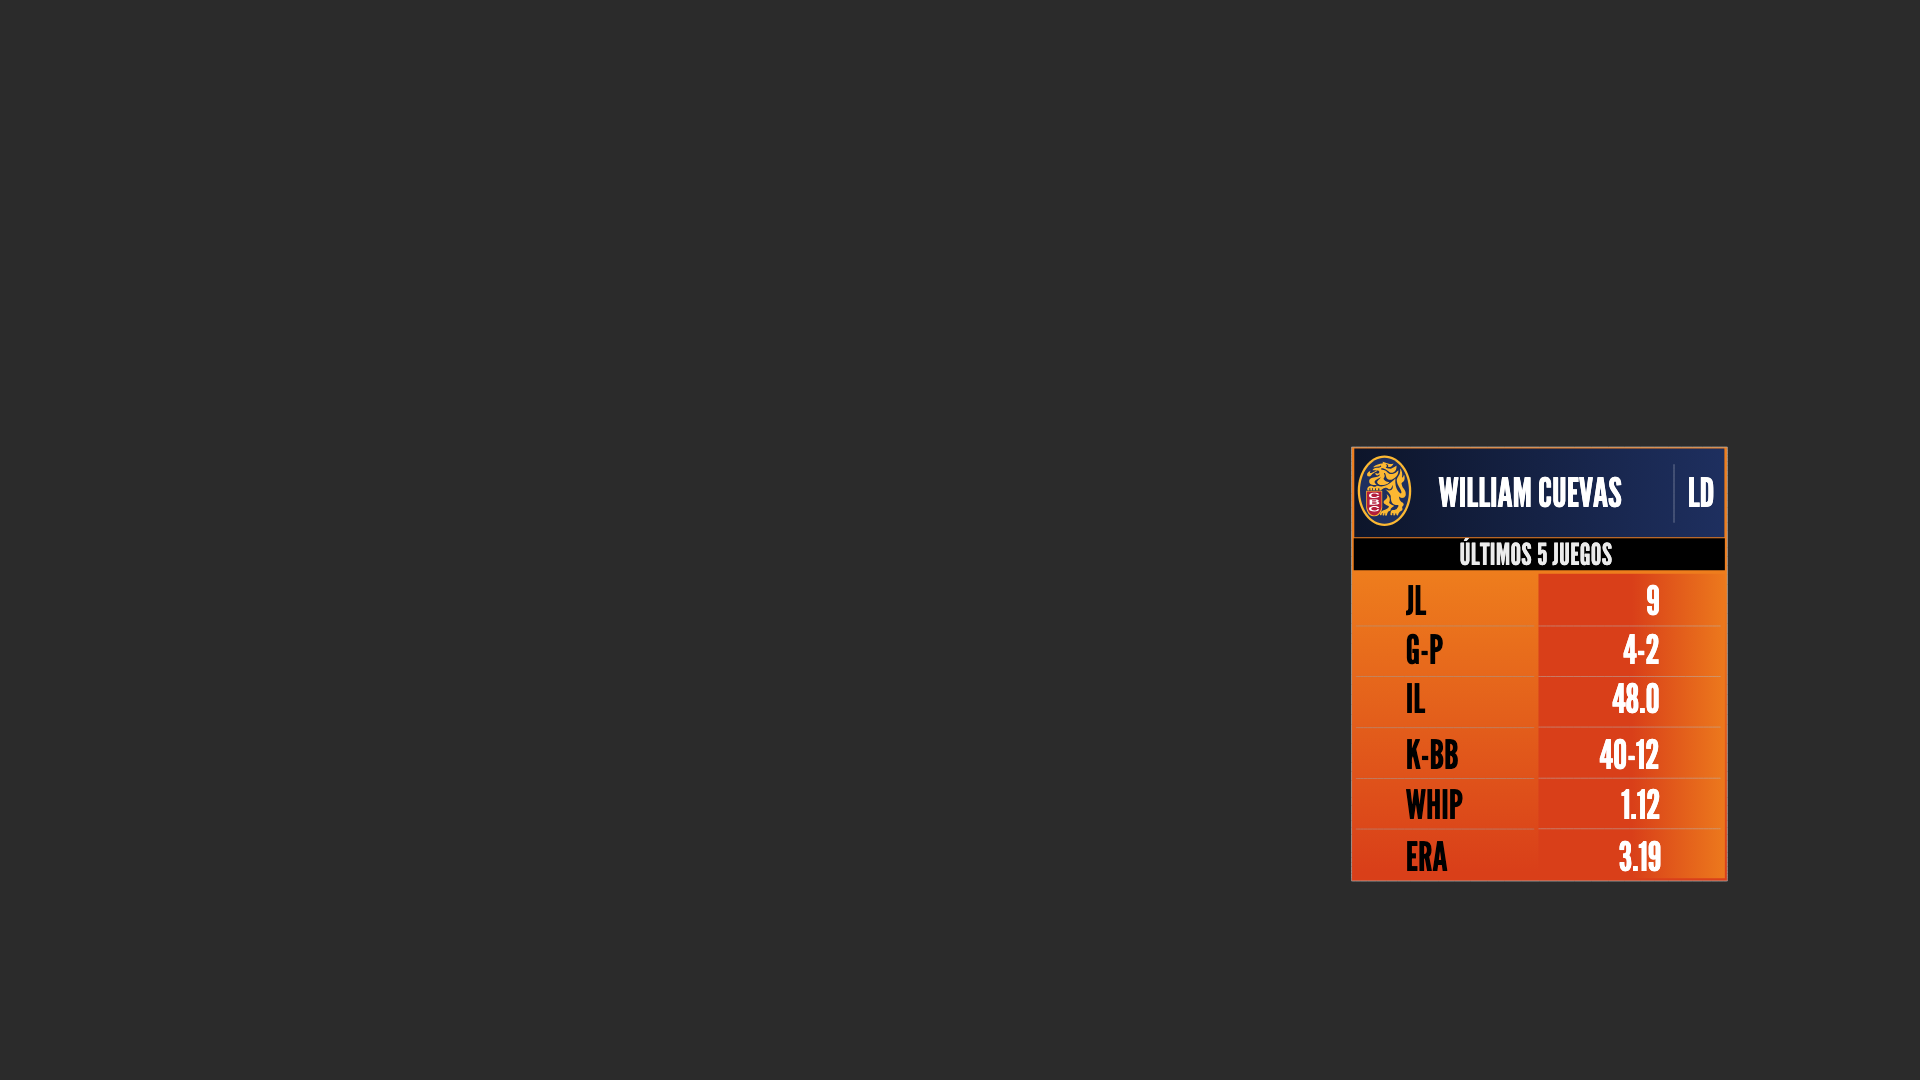
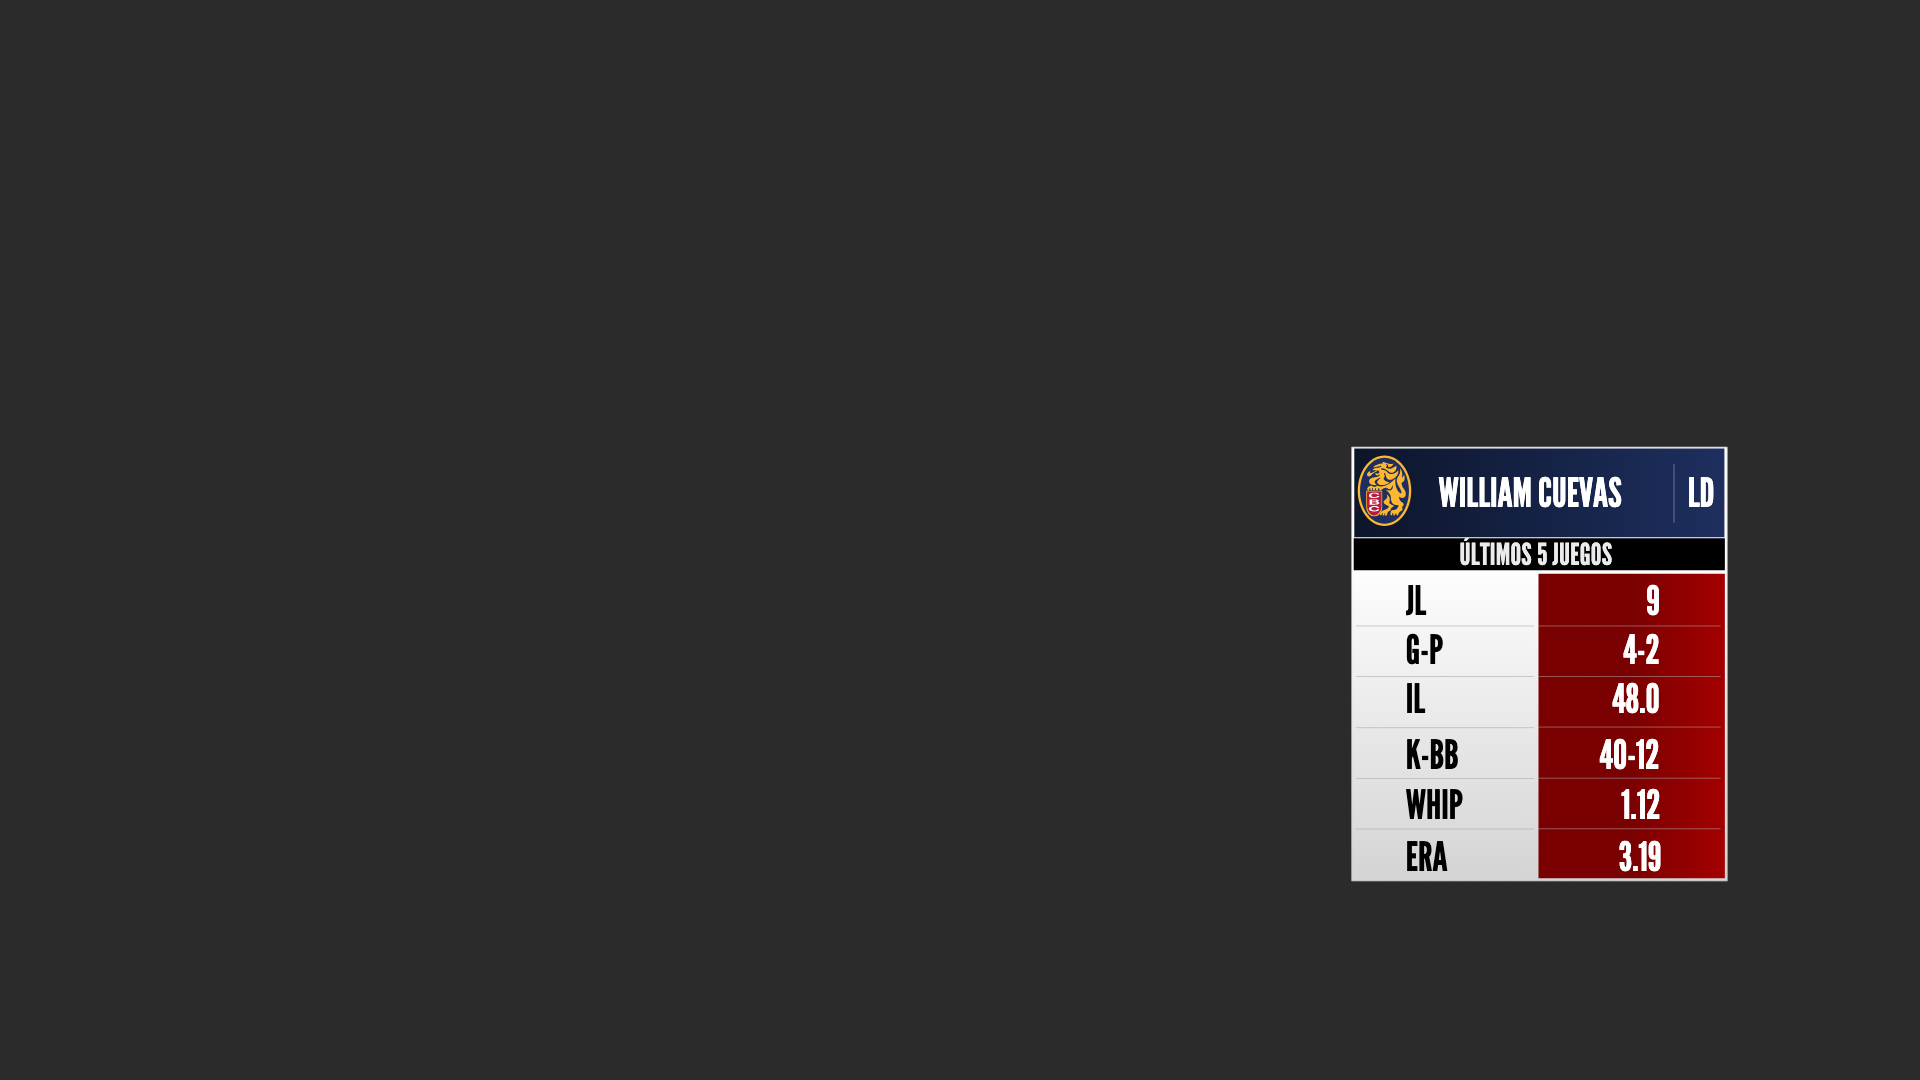
Lanzador: tabla blanca y roja
El diseñador confirmó que la tabla va blanca y roja para todos los
equipos; sólo el encabezado toma el color del equipo. El export traía
BASE BLANCA y BASE ROJA con el mismo degradado naranja: se les copia el
blanco y el rojo de la cortina de entrada (Shape Layer 2 y 1), la paleta
del diseño. Comparado contra la captura de AE que mandó el diseñador:
mismos colores y degradados (blanco 253 → 211 de arriba a abajo, rojo
oscuro a la izquierda).

Capturas del lanzador regeneradas; CLAUDE.md anota el arreglo para el
próximo export.

Changed region(s): [[0.6875, 0.4889, 0.9062, 0.825]]

diff --git a/CLAUDE.md b/CLAUDE.md
@@ -17,7 +17,7 @@ Las keys del UPDATE de cada uno están en su `data.md`.
 
 Cómo se ve cada uno, en [capturas/](capturas/): `<gráfico>.png` es la pantalla completa con data de
 ejemplo (muestra dónde cae en el cuadro) y `<gráfico>_equipos.png`, todos los equipos (en `score`,
-los 56 cruces `visita_vs_local`). Son de v0.0.6: si un gráfico cambia, hay que regenerarlas. No
+los 56 cruces `visita_vs_local`). Son de v0.0.7: si un gráfico cambia, hay que regenerarlas. No
 entran al zip (`.gitattributes`).
 
 Escudos: en `defensiva`, `lanzador` y las dos barras de bateador son
@@ -47,6 +47,9 @@ Cada export de AE trae los nombres crudos y hay que repetir la preparación. Bus
   `titulo`, y `leadinbarrainformacion` (el triángulo amarillo) pierde la clase: no es una clave.
   En `bateador_informacion` la línea libre llega como `numeroaverage` (quedó de la otra barra):
   pasa a `texto`.
+- **Colores:** en `lanzador` el export trae `BASE BLANCA` y `BASE ROJA` con el mismo degradado
+  naranja. La tabla va blanca y roja para todos los equipos (confirmado por el diseñador): se les
+  copia el degradado de la cortina de entrada (`Shape Layer 2` el blanco, `Shape Layer 1` el rojo).
 - **Capas ocultas en AE** no se exportan (quedan `ind` salteados): `TIBUSVISITA` y su máscara en
   `score`, `AGUI` y su máscara en `lanzador`. Se trasplantan de la versión publicada.
 - **Markers:** los del diseñador (`start`, `loop`, `hold`…) se reemplazan por los de la tabla de
